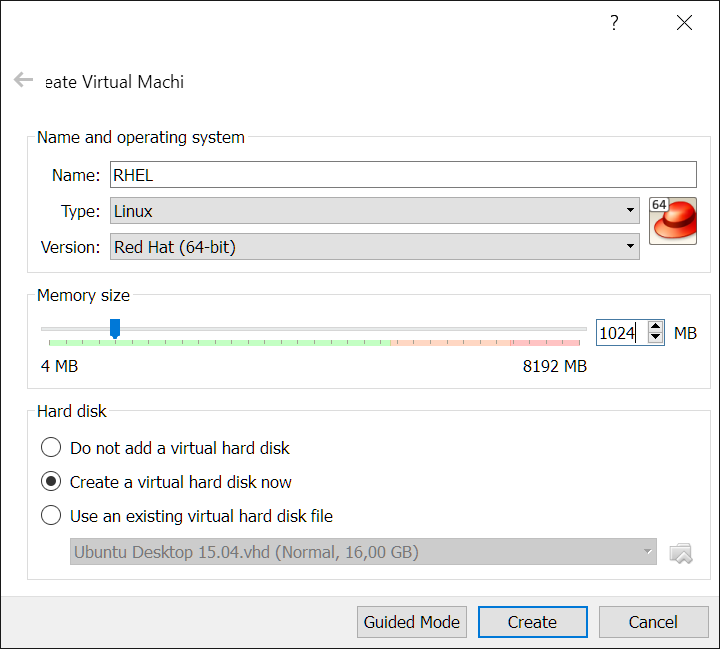
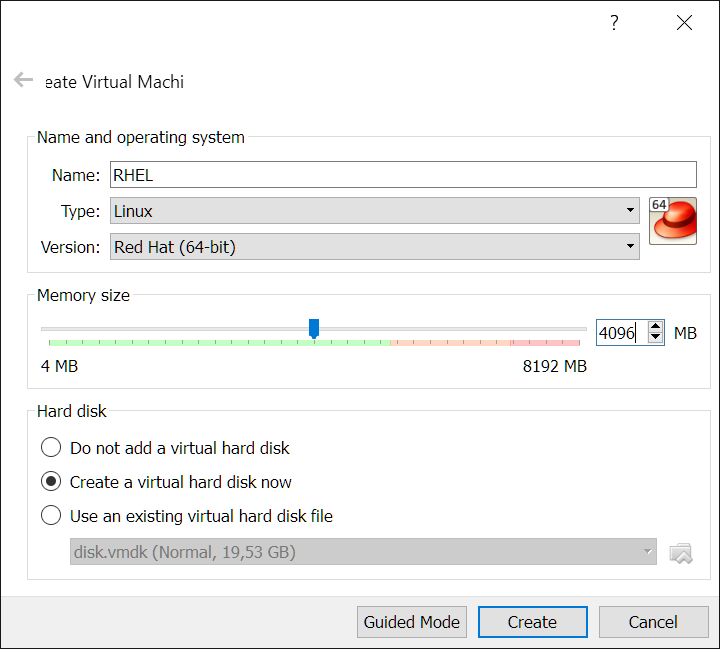
Fixes for RHEL 7

diff --git a/_posts/2015-12-22-preparing-a-red-hat-enterprise-linux-7-image-for-azure.md b/_posts/2015-12-22-preparing-a-red-hat-enterprise-linux-7-image-for-azure.md
@@ -26,11 +26,11 @@ Download the binary ISO distribution of Red Hat Enterprise Linux 7 from the offi
 >
 > If you already have a VM running that needs to be moved to Azure, skip this step. However, you need to make sure that:
 >
-> - The network is configured to use DHCP. If your VM has a statically-assigned IP, revert back to DHCP.
-> - Ensure that you do not have a swap partition in the VHD file. On Azure, the OS disk is backed by Azure Blob Storage, which operates over the network and it's not ideal for swap volumes. In the image preparation section below you can use the WALinuxAgent to create a swap volume in the ephemeral resource disk directly attached to the VM.
+> - The network (interface "eth0") is configured to use DHCP. If your VM has a statically-assigned IP, revert back to DHCP.
+> - Ensure that you do not have a swap partition in the VHD file. On Azure, the OS disk is backed by Azure Blob Storage, which functions over the network and is not ideal for swap volumes. In the image preparation section below you can use the WALinuxAgent to create a swap volume in the ephemeral resource disk which directly attached to the VM.
 > - If you're using a custom kernel, ensure that the Linux Integration Services are installed. In the case of a custom kernel, it's also recommended to use a recent version (3.8+).
 
-From within VirtualBox, create a new Virtual Machine, configured for Linux and Red Hat (64 bit).
+From within VirtualBox, create a new Virtual Machine, configured for Linux and Red Hat (64 bit). Ensure that you allocate at least 2048 MB of memory (4096 MB recommended) to your VM while it's running locally, as we will not be using swap in the VirtualBox environment (however, the OS will be able to use a swap volume when running on Azure).
 
 ![VirtualBox: create a new Linux Red Hat (64 bit) VM](/assets/vbox-create-1.png)
 
@@ -40,7 +40,7 @@ In the next step, create a hard drive and choose "VHD (Virtual Hard Disk)" as ty
 
 Once the VM is created, start it and connect the ISO image for RHEL 7 as optical disk, then boot from it.
 
-> **Tip**: by default, VirtualBox configures the networking adapter of the VM in NAT mode. If you want to connect to your VM via SSH, you'll need to change it to Bridged mode (or go through complicated NAT setups).
+> **Tip**: by default, VirtualBox configures the networking adapter of the VM in NAT mode. If you want to connect to your VM via SSH, you'll need to change it to Bridged mode (or go through complicate NAT setups).
 
 When the bootloader appears, choose the Install option:
 
